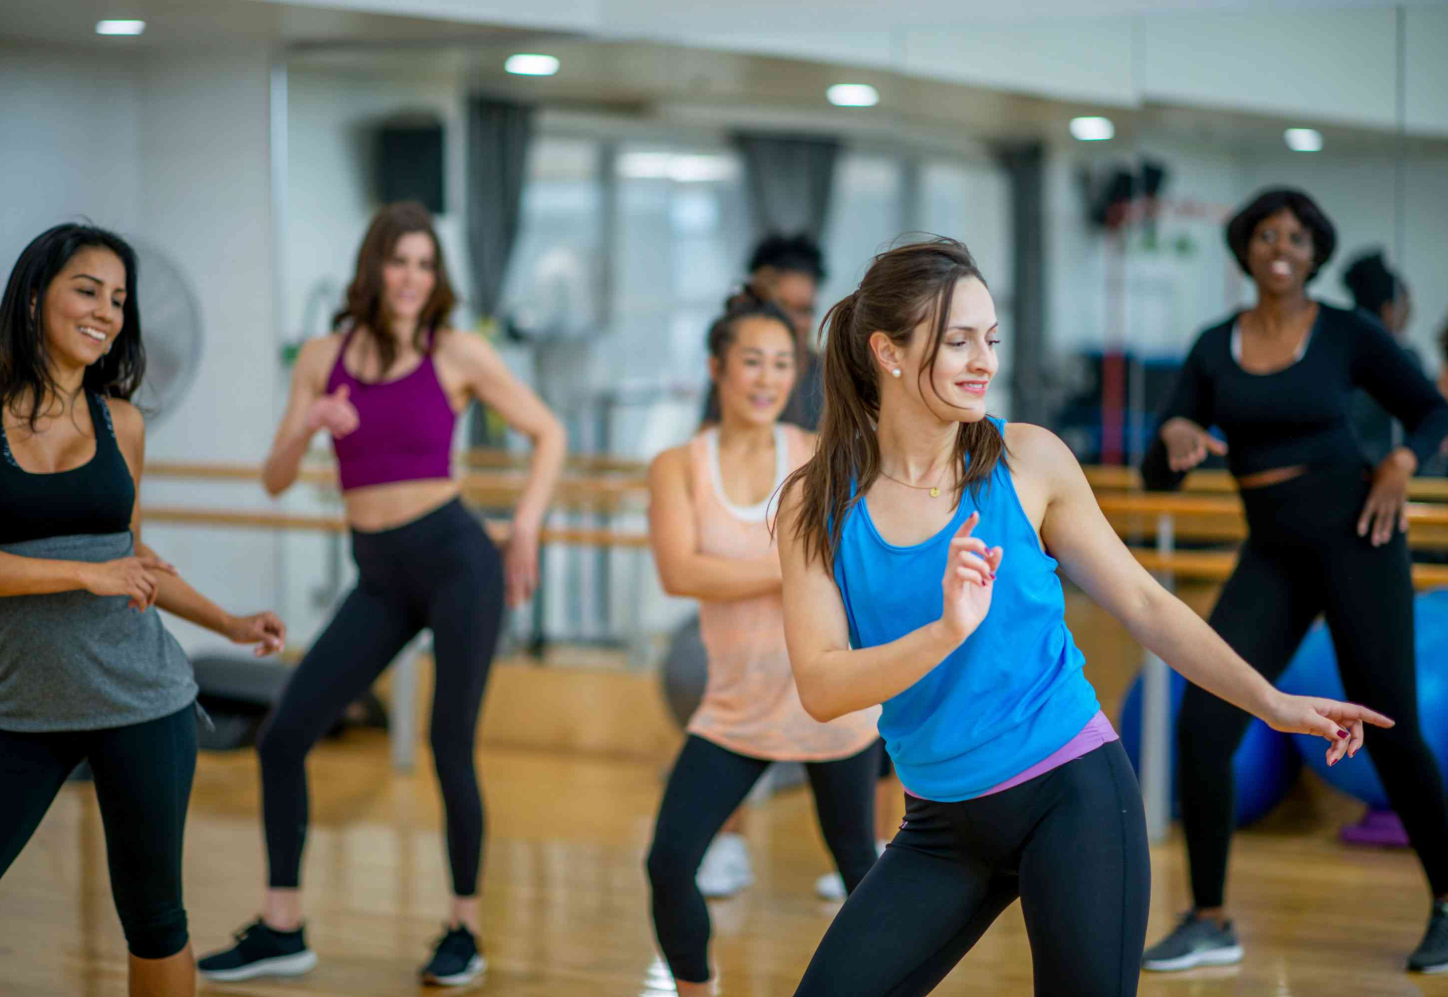
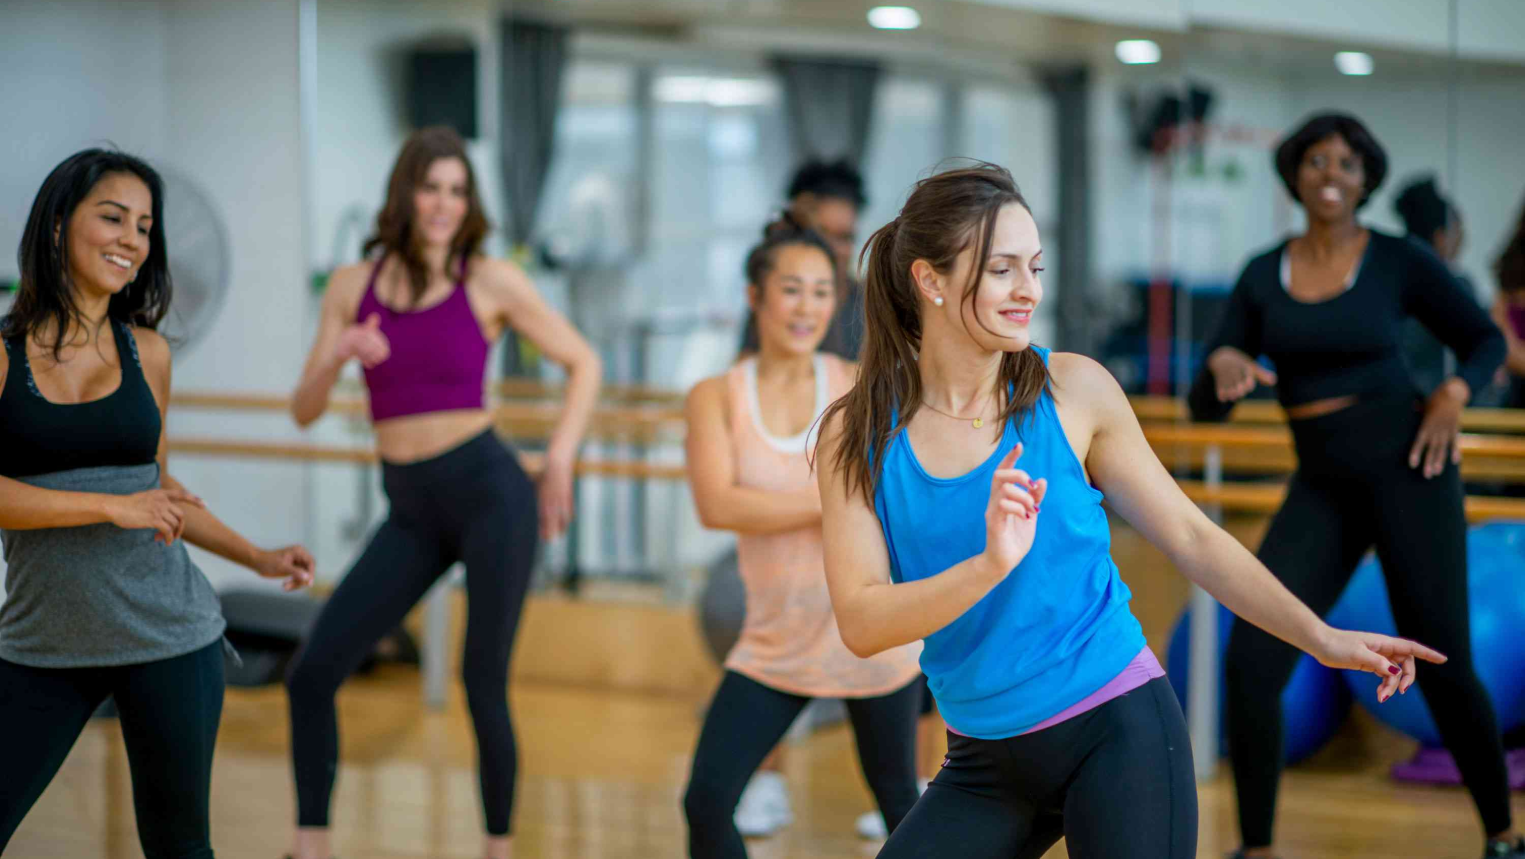
updated more

diff --git a/src/components/BodyComponents/PersonalTrainer/PersonalTrainer.tsx b/src/components/BodyComponents/PersonalTrainer/PersonalTrainer.tsx
@@ -5,10 +5,11 @@ import { requiresMargin, requiresPadding } from "../../../declaratiionVariables"
 
 
 const PersonalTrainer = (prop:bodyProp) => {
+
   return (
         <section className="relative w-100vw mt-10">
             <div className="grid grid-cols-1 grid-rows-3 xmd:grid-rows-4 h-onePage">
-                <div className={`row-span-3 xmd:row-span-2 grid grid-rows-4 xmd:grid-rows-2 xmd:grid-cols-2 md:h-96 ${requiresMargin}`}>
+                <div className={`row-span-3 xmd:row-span-1 md:row-span-2 grid grid-rows-4 xmd:grid-rows-2  xmd:grid-cols-2 md:h-96 ${requiresMargin}`}>
                     <div className="">
                         <h1 className="text-4xl md:text-6xl text-20% h-10 font-bold opacity-90" > {prop.heading}
                             <div className="text-orange-400 ">
@@ -16,7 +17,7 @@ const PersonalTrainer = (prop:bodyProp) => {
                             </div>
                         </h1>
                     </div>
-                    <div className="row-span-3 md:row-span-2 col-span-1 overflow-hidden">
+                    <div className="row-span-1 md:row-span-2 col-span-1 overflow-hidden 2xl:h-imageAt3xl z-10">
                         <img src="/personalTrainer.png" alt="Personal Trainer" className="bg-cover"/>
                     </div>
                     <div className=" mt-4 xmd:mt-0 ">
@@ -34,12 +35,10 @@ const PersonalTrainer = (prop:bodyProp) => {
                             {/* <TrainerCard name={"Smiti Bishwokarma"} availability={{from:"1pm", to:"5pm"}} image={"/trainer3.jpg"} age={26} ph={9812345678}/> */}
                         </div>
                     </div>
-
                     <div className="mt-6">
                         <PrimaryButton text={"Book one"}/>
                     </div>
                 </div>
-            
             </div>
         </section>
   )

diff --git a/src/components/BodyComponents/ProgramsWeOffer/ProgramsWeOffer.tsx b/src/components/BodyComponents/ProgramsWeOffer/ProgramsWeOffer.tsx
@@ -7,8 +7,8 @@ import TrainerCard from "../../Cards/TrainerCards"
 const ProgramsWeOffer = (prop:programsWeOfferProps) => {
   return (
         <section className="relative w-100vw mt-5vh mb-10vh">
-            <div className="grid grid-cols-1 grid-rows-3 xmd:grid-rows-4 h-onePage">
-                <div className={`row-span-3 xmd:row-span-2 grid grid-rows-4 xmd:grid-rows-2 xmd:grid-cols-2 md:h-96 ${requiresMargin}`}>
+            <div className="grid grid-cols-1 grid-rows-3 xmd:grid-rows-5 h-onePage">
+                <div className={`row-span-3 xmd:row-span-1 md:row-span-2 xmd:grid xmd:grid-rows-2 xmd:grid-cols-2  ${requiresMargin}`}>
                     <div className="">
                         <h1 className="text-2xl md:text-4xl h-10 font-bold opacity-90" > {prop.heading}
                             <div className="text-orange-400 ">
@@ -16,7 +16,7 @@ const ProgramsWeOffer = (prop:programsWeOfferProps) => {
                             </div>
                         </h1>
                     </div>
-                    <div className=" row-span-3 md:row-span-2 col-span-1 overflow-hidden">
+                    <div className=" row-span-3 md:row-span-2 col-span-1 overflow-hidden  2xl:h-imageAt3xl z-10">
                         <img src={prop.heroImg} alt="Personal Trainer" className="object-cover"/>
                     </div>
                     <div className=" mt-4 xmd:mt-0 ">

diff --git a/tailwind.config.js b/tailwind.config.js
@@ -27,6 +27,7 @@ export default {
         "onePage": "860px",
         "maxWidth": "1300px",
         "subMenuHeight": "415px",
+        "imageAt3xl": "550px",
         "18": "68px",
         "14": "50px",
         "1px": "1px",
